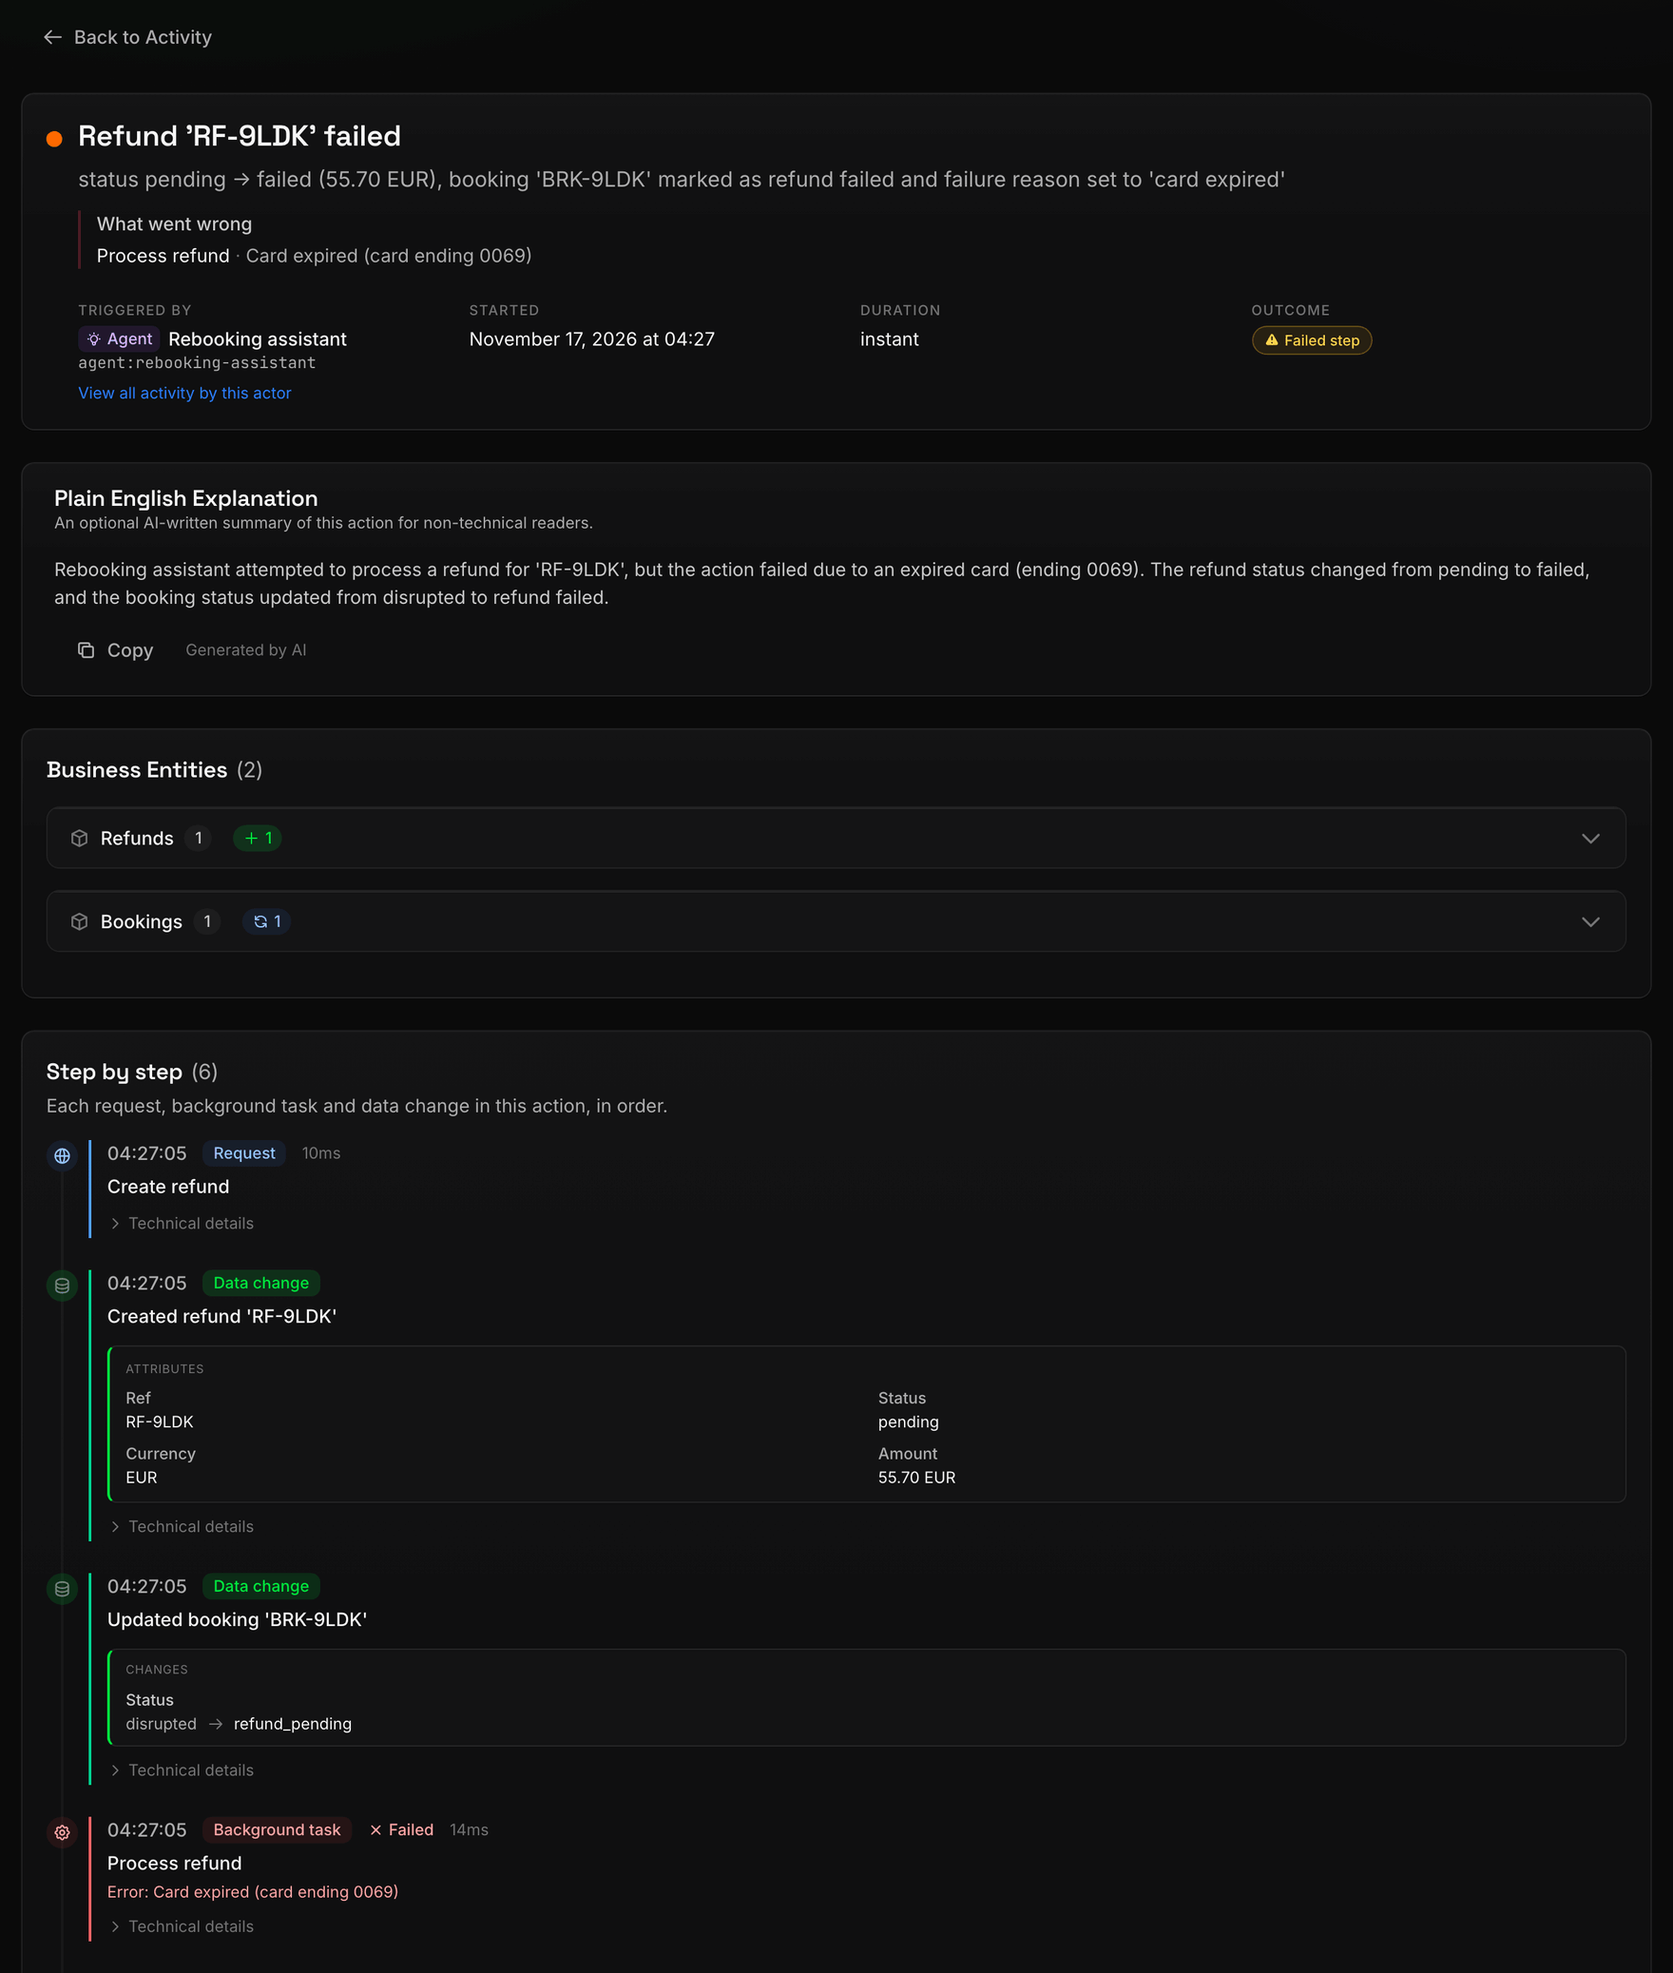
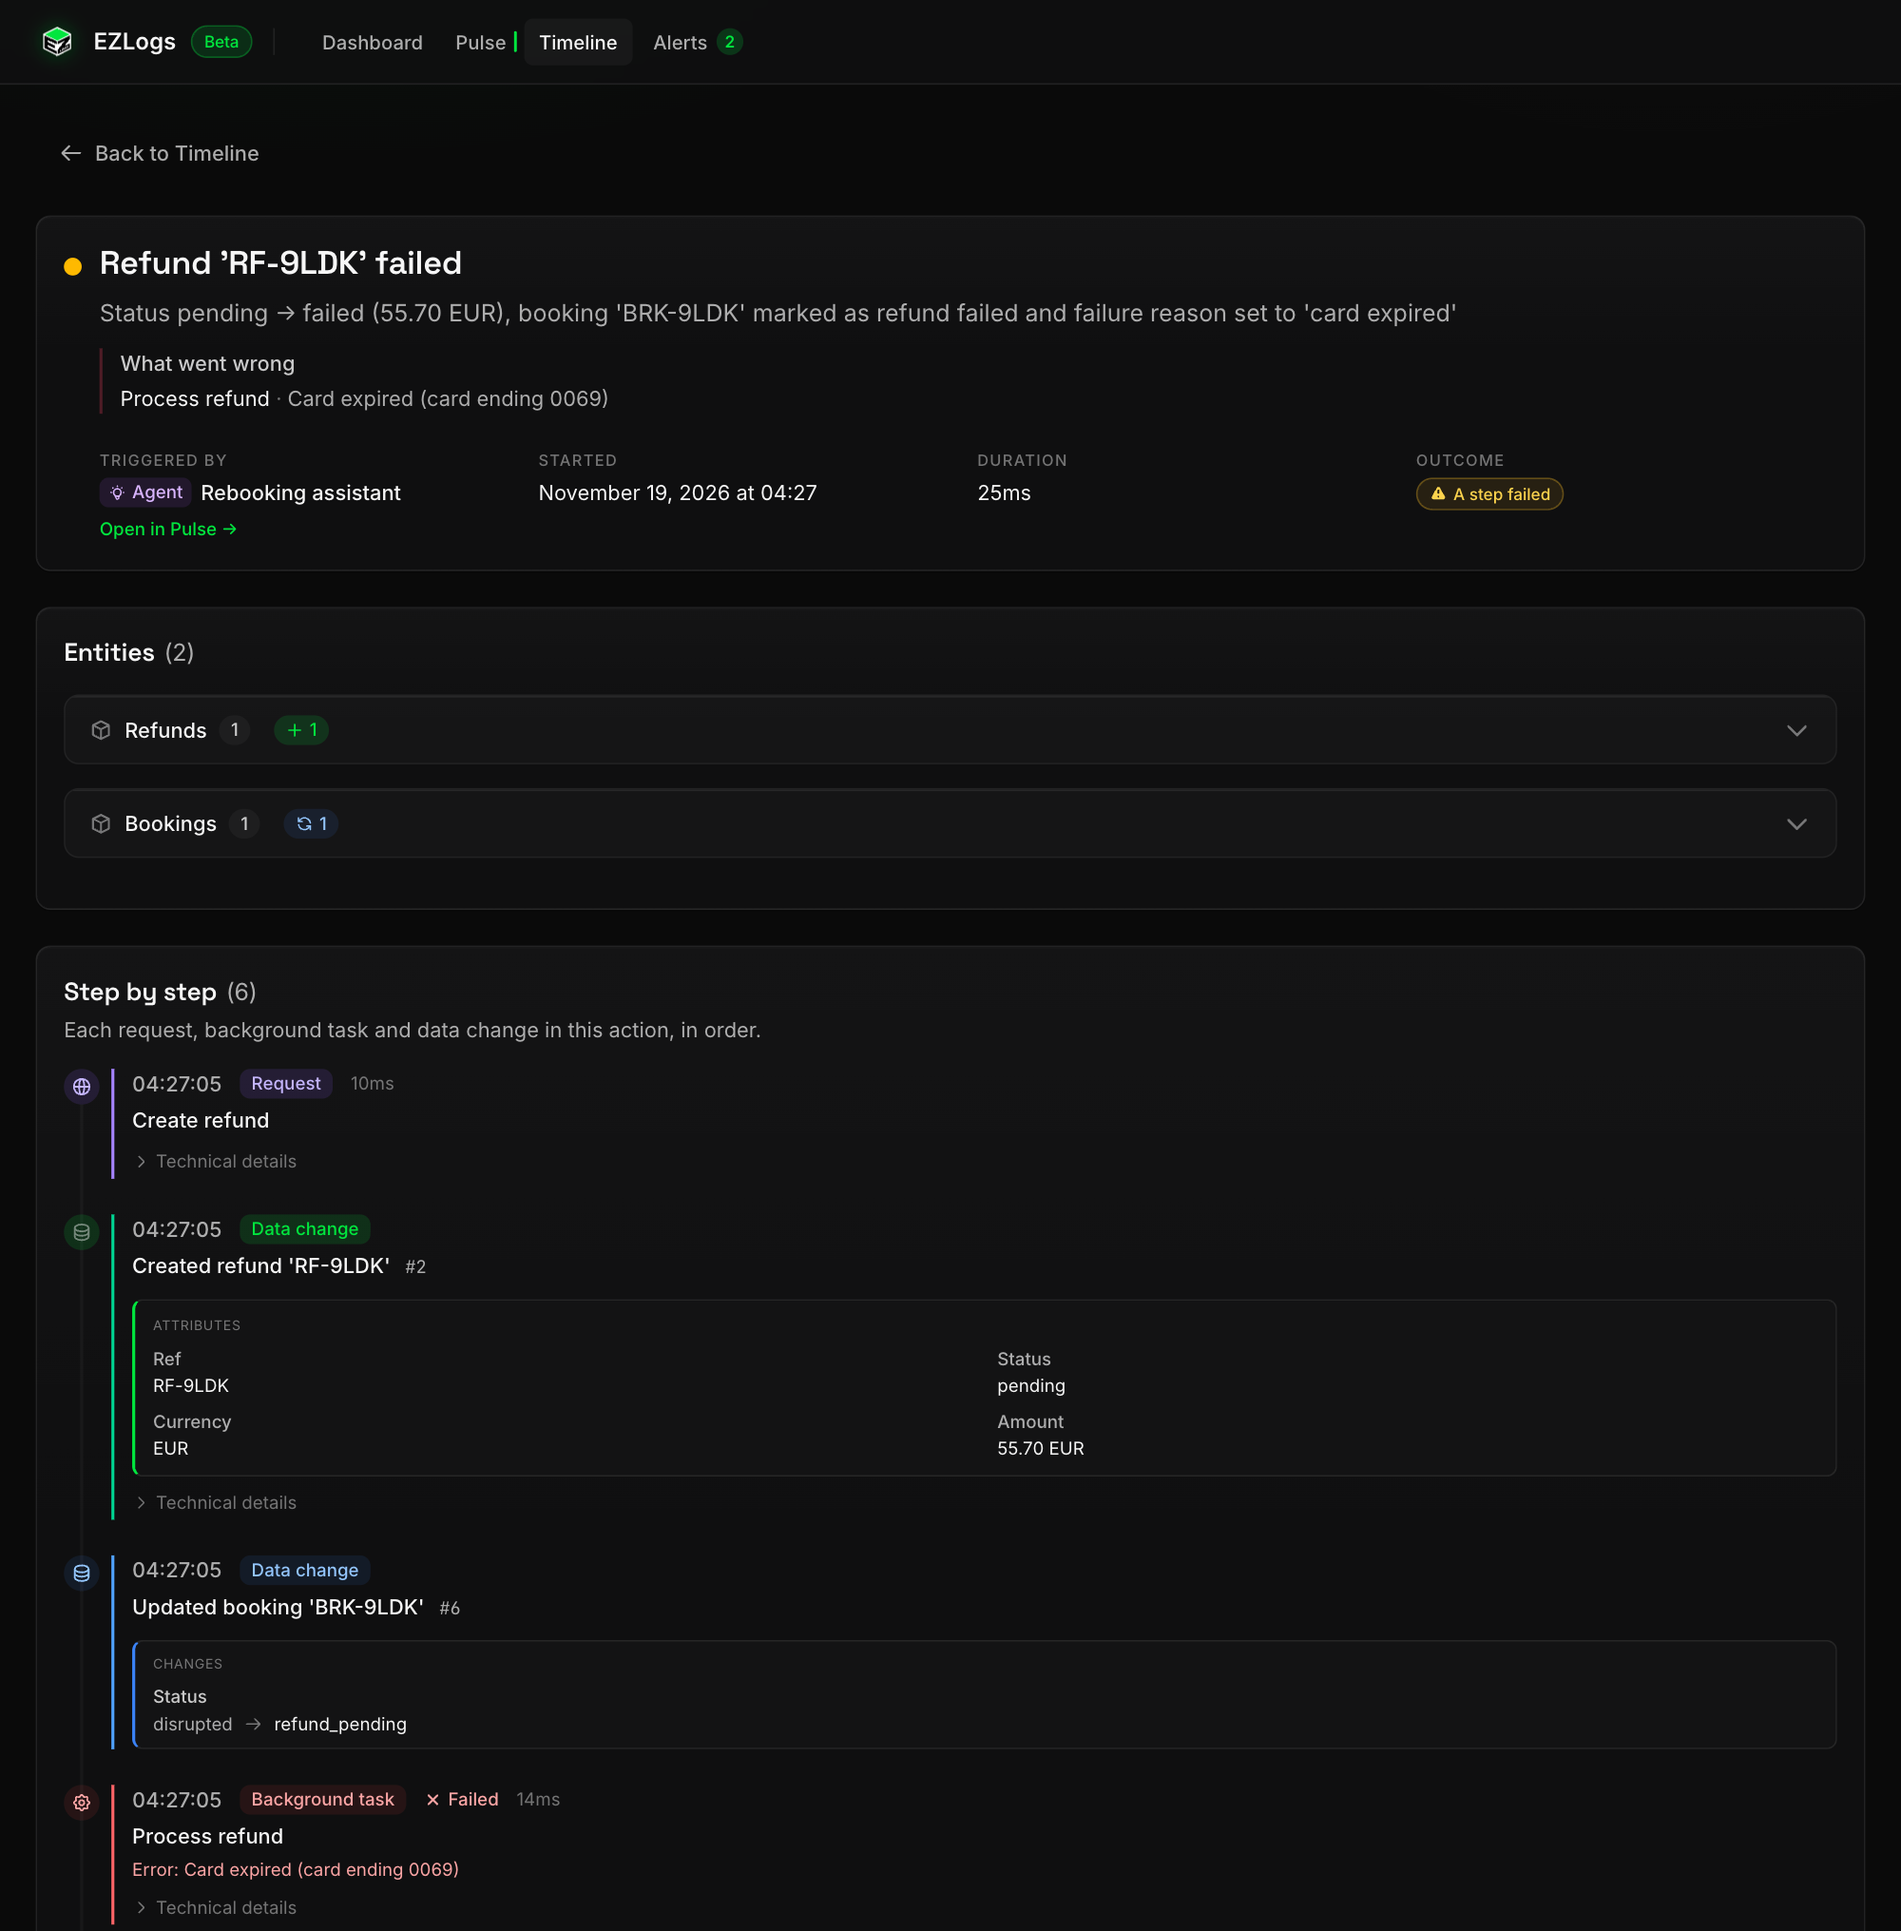
site: publish 2026-11-19 22:37 UTC

diff --git a/index.html b/index.html
@@ -982,29 +982,29 @@
       <div class="proof">
         <article class="proof__item">
           <figure class="proof__shot">
-            <img src="assets/screenshots/dashboard-ferry.png" alt="EZLogs dashboard: 155 actions and 5 issues today, a last-7-days bar chart, the Rebooking assistant agent as the most active actor this week, rebooked bookings and a rejected rebooking in the What's happening feed, and rejected rebookings and a failed refund under Things that need attention" width="2000" height="1850" loading="lazy">
+            <img src="assets/screenshots/dashboard-ferry.png" alt="EZLogs dashboard: 149 actions today and 5 failed, a last-7-days bar chart, What failed today listing refunds that failed on an expired card and rebookings refused because the sailing was full, the latest actions by the Rebooking assistant agent, and the most active actors and bookings this week" width="2000" height="1595" loading="lazy">
           </figure>
           <div class="proof__text">
             <span class="proof__caption">Dashboard</span>
             <h3 class="proof__title">Open it in the morning. See what needs you.</h3>
-            <p class="proof__body">How busy the day was, what went wrong, and who did the most work. Here: 155 actions, 5 issues, and the Rebooking assistant at the top of the list. Every line reads like a sentence, not a log entry.</p>
+            <p class="proof__body">How busy the day was, what went wrong, and who did the most work. Here: 149 actions and 5 failed (three refunds on an expired card, two rebookings onto a full sailing), with the Rebooking assistant at the top of the list. Every line reads like a sentence, not a log entry.</p>
           </div>
         </article>
 
         <article class="proof__item proof__item--flip">
           <figure class="proof__shot">
-            <img src="assets/screenshots/timeline-ferry.png" alt="Timeline: the Rebooking assistant rebooking bookings onto other sailings and issuing a refund, with three refunds marked failed because the card expired" width="1958" height="1694" loading="lazy">
+            <img src="assets/screenshots/timeline-ferry.png" alt="Timeline filtered to refunds: eight actions by the Rebooking assistant, five refunds issued and three marked failed in amber because the card expired, each with its amount" width="2000" height="2198" loading="lazy">
           </figure>
           <div class="proof__text">
             <span class="proof__caption">Timeline</span>
             <h3 class="proof__title">Every action, by anyone, in one feed.</h3>
-            <p class="proof__body">People, AI agents and background jobs side by side. The assistant&rsquo;s rebookings run down the page, and the three refunds that failed stand out in amber, each with its amount and reason.</p>
+            <p class="proof__body">People, AI agents and background jobs side by side. Filter to refunds: five issued, and the three that failed stand out in amber, each with its amount and reason.</p>
           </div>
         </article>
 
         <article class="proof__item">
           <figure class="proof__shot">
-            <img src="assets/screenshots/action-failed-ferry.png" alt="Action page for Refund RF-9LDK failed: What went wrong says Process refund, card expired (card ending 0069), followed by an optional AI explanation, the refund and booking it touched, and each step in order" width="1760" height="2075" loading="lazy">
+            <img src="assets/screenshots/action-failed-ferry.png" alt="Action page for Refund RF-9LDK failed: What went wrong says Process refund, card expired (card ending 0069); triggered by the Rebooking assistant, outcome A step failed; then the refund and booking it touched and each step in order, the failed background task showing its error" width="2000" height="2031" loading="lazy">
           </figure>
           <div class="proof__text">
             <span class="proof__caption">One action, end to end</span>
@@ -1015,7 +1015,7 @@
 
         <article class="proof__item proof__item--flip">
           <figure class="proof__shot">
-            <img src="assets/screenshots/pulse-booking-ferry.png" alt="Pulse page for booking BRK-M9PM: latest state refund failed, touched by the Rebooking assistant, Tomás Rivera and Lena Marsh, with its three actions from creation to cancelled sailing to failed refund" width="2004" height="1010" loading="lazy">
+            <img src="assets/screenshots/pulse-booking-ferry.png" alt="Pulse page for booking BRK-M9PM: latest, refund RF-M9PM failed; touched by the Rebooking assistant, Tomás Rivera and Lena Marsh, with its three actions from creation to cancelled sailing to failed refund" width="2000" height="1060" loading="lazy">
           </figure>
           <div class="proof__text">
             <span class="proof__caption">Pulse</span>
